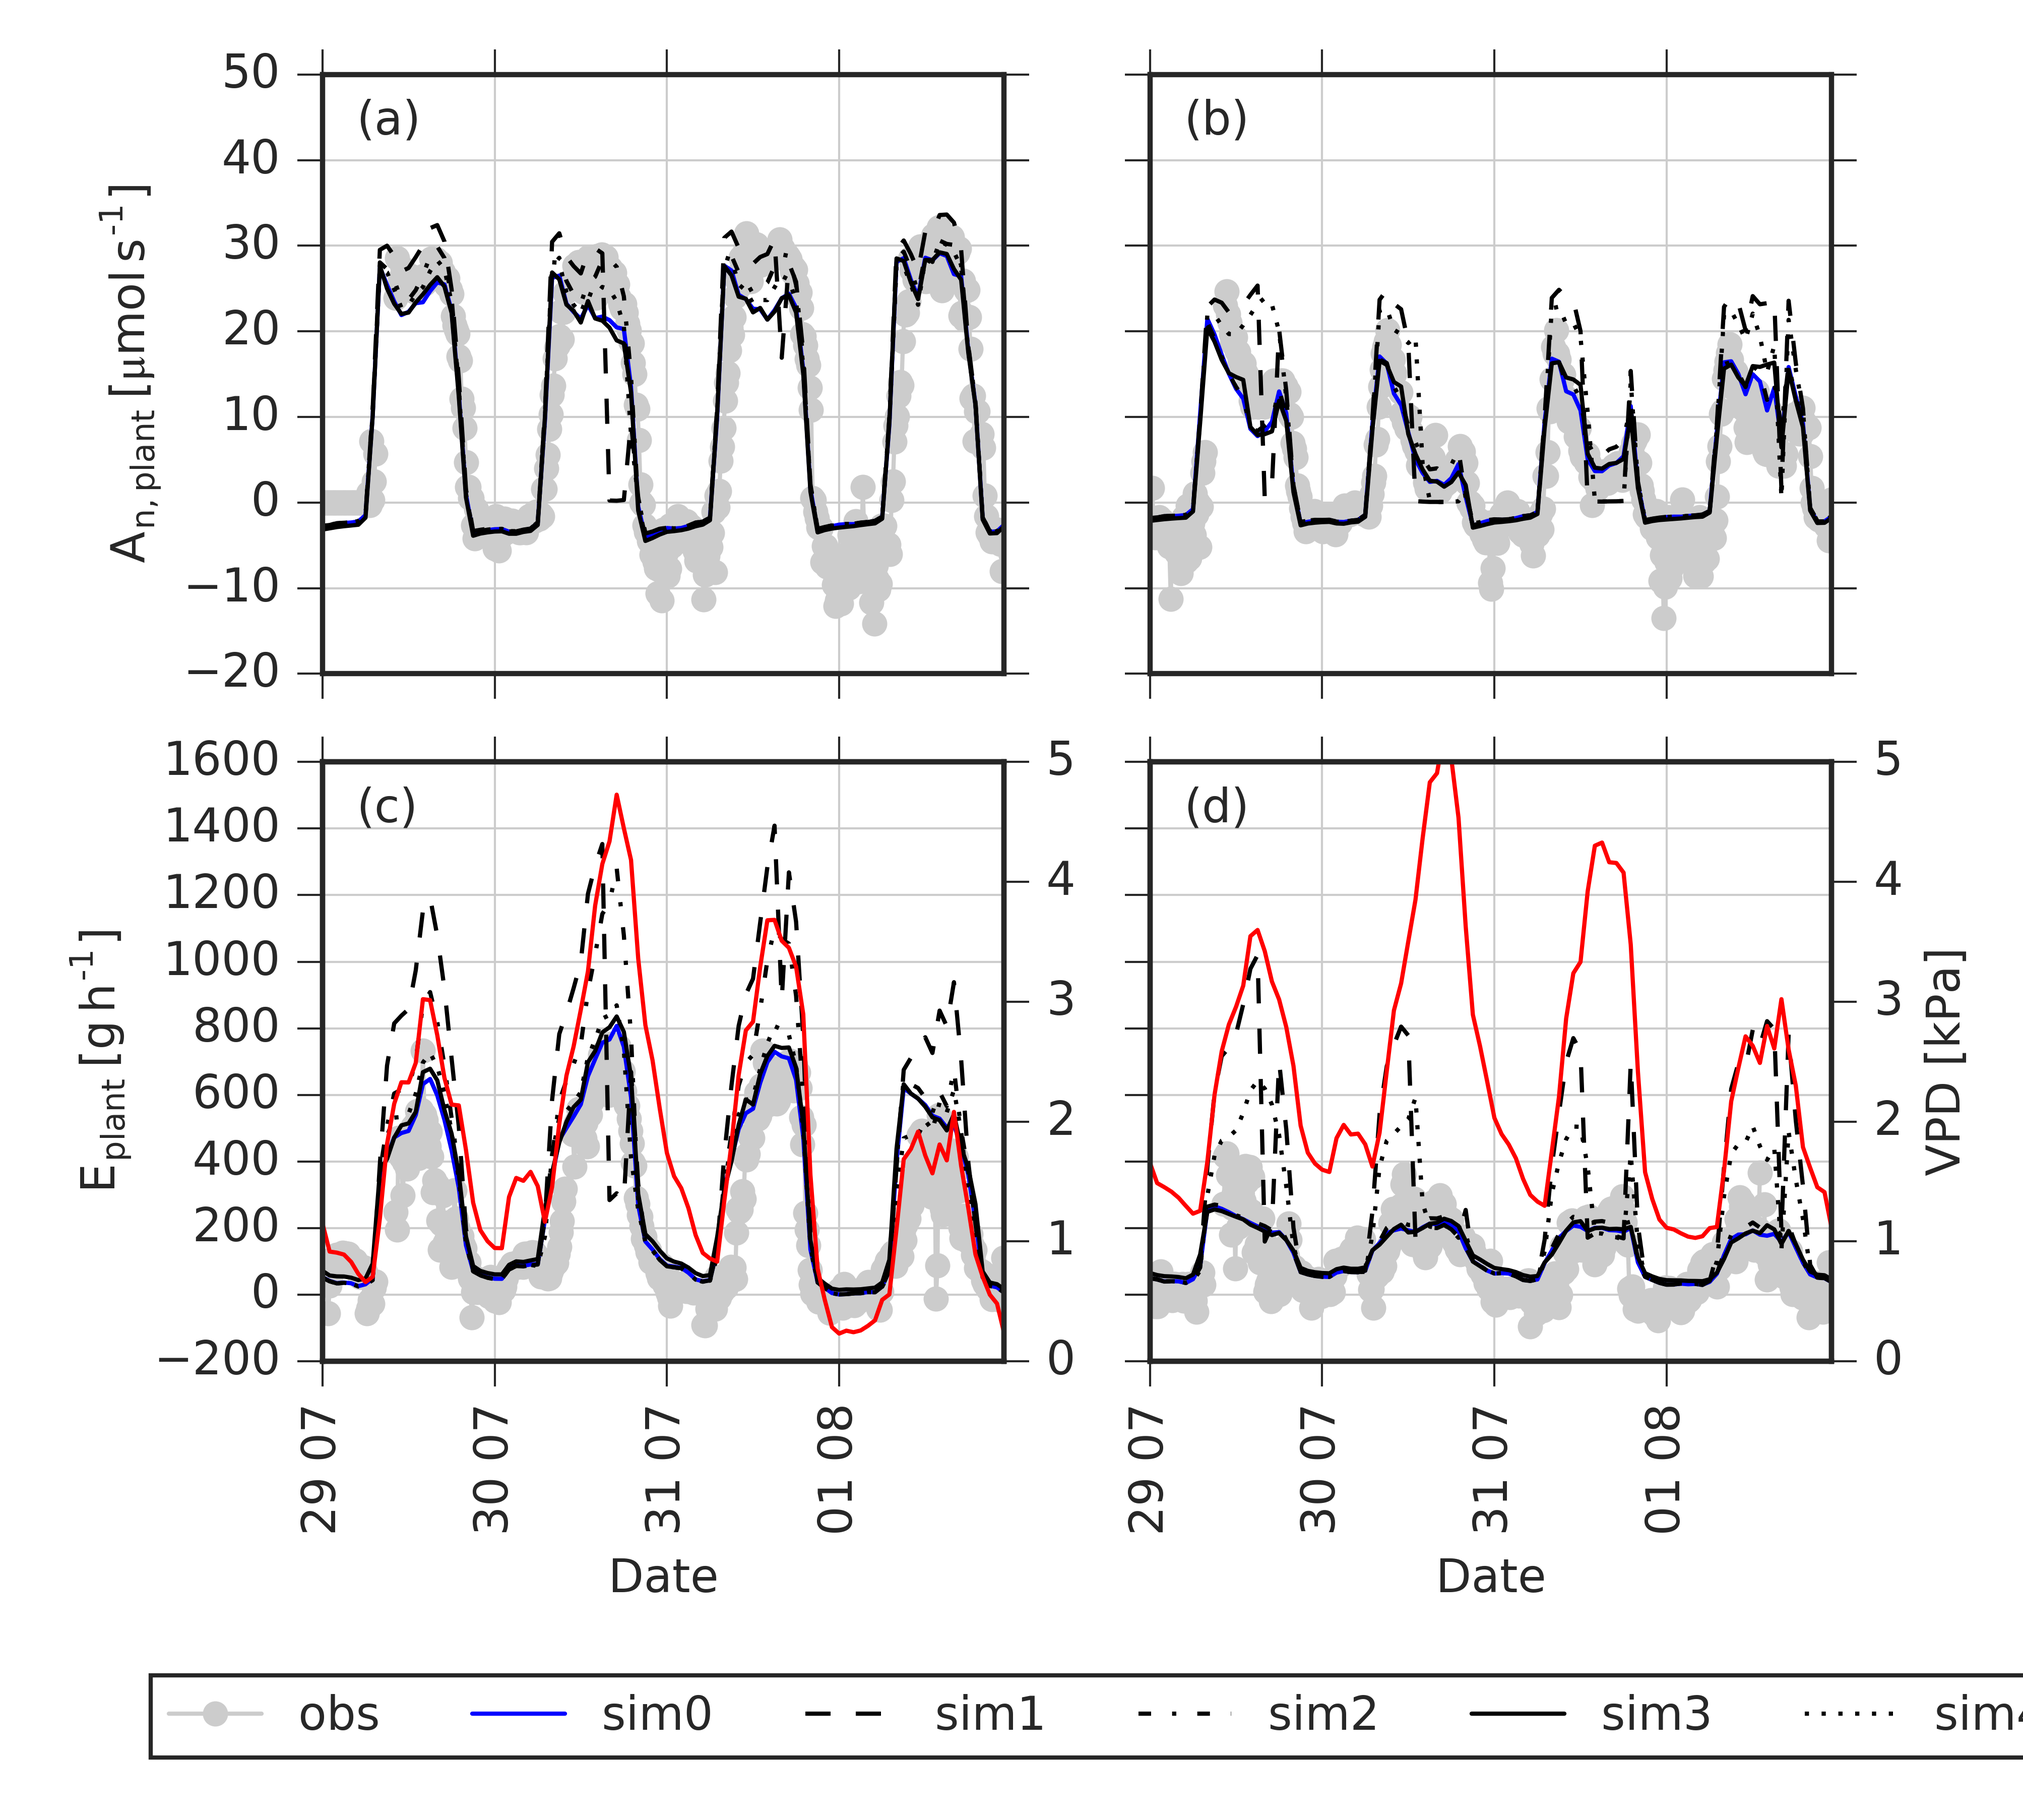
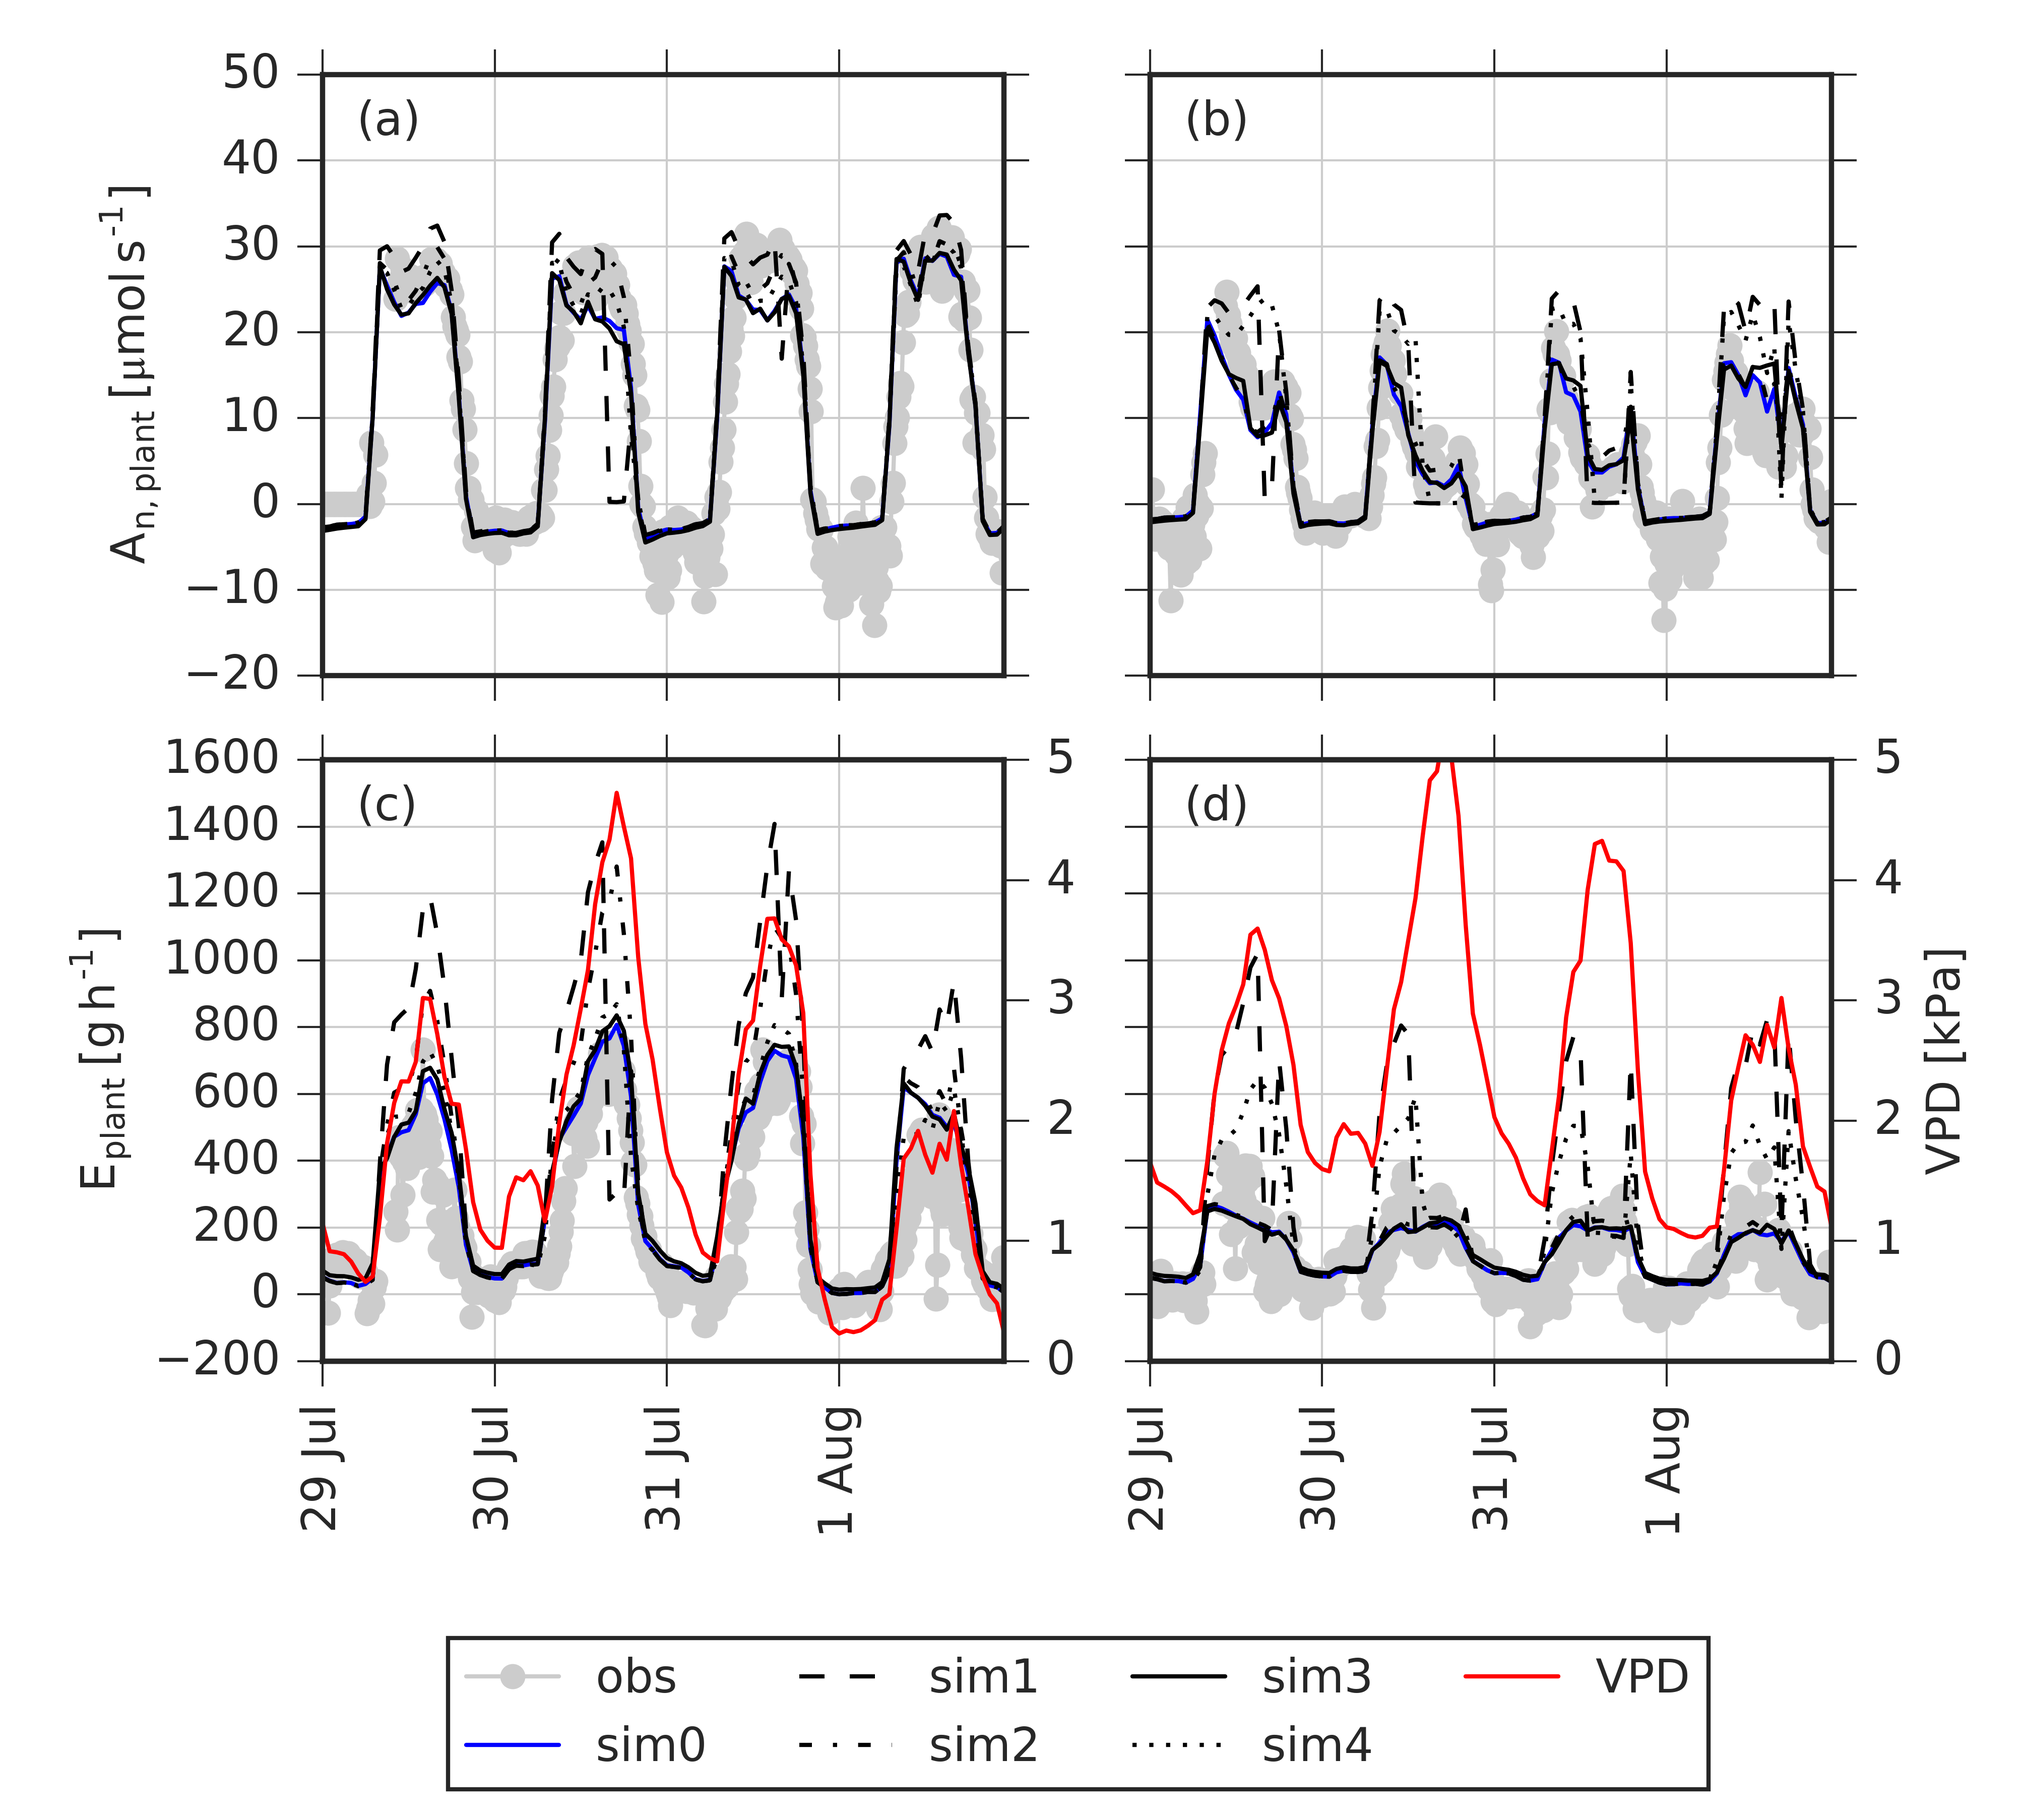
setup plot_figure_15()

diff --git a/example/figs/paper_figs.py b/example/figs/paper_figs.py
@@ -797,24 +797,24 @@ def plot_figure_15():
             axs[1, i_treat].plot(sims['E'], style[case], label='sim0', linewidth=1)
 
     for i, ax in enumerate(axs.flatten()):
-        ax.text(0.05, 0.9, ('(a)', '(b)', '(c)', '(d)')[i], transform=ax.transAxes)
+        ax.text(0.05, 0.9, ('(a)', '(b)', '(c)', '(d)')[i], transform=ax.transAxes,
+                fontdict={'size': 11})
 
     axs[0, 0].set(
         ylabel='$\mathregular{A_{n, plant}\/[\mu mol\/s^{-1}]}$',
         ylim=(-20, 50))
     axs[1, 0].set(
-        xlabel='Date',
         ylabel='$\mathregular{E_{plant}\/[g\/h^{-1}]}$',
         xlim=(beg_date, end_date),
         ylim=(-200, 1600))
-    axs[1, 1].set(xlabel='Date')
+
     [ax.set_ylim(0, 5) for ax in fig.get_axes()[-2:]]
     fig.get_axes()[-1].set(ylabel='VPD [kPa]')
 
     for ax in axs[1, :].flatten():
         ax.set_xticklabels(datet, rotation=90)
         ax.xaxis.set_major_locator(dates.DayLocator())
-        ax.xaxis.set_major_formatter(dates.DateFormatter('%d %m'))
+        ax.xaxis.set_major_formatter(dates.DateFormatter('%-d %b'))
 
     fig.tight_layout()
     fig.subplots_adjust(bottom=0.25)
@@ -822,8 +822,8 @@ def plot_figure_15():
     h1, l1 = axs[1, 1].get_legend_handles_labels()
     h2, l2 = fig.get_axes()[-1].get_legend_handles_labels()
 
-    axs[1, 1].legend(h1 + h2, ['obs'] + ['sim%d' % d for d in range(5)] + ['VPD'], frameon=True,
-                     bbox_to_anchor=(-1.5, -0.7, 2, .102), loc=3, ncol=8,
+    axs[1, 0].legend(h1 + h2, ['obs'] + ['sim%d' % d for d in range(5)] + ['VPD'], frameon=True,
+                     bbox_to_anchor=(0.15, -0.75, 2, .102), loc=3, ncol=4,
                      prop={'size': 11})
 
     fig.savefig('fig_15.png', dpi=600.)
@@ -984,15 +984,15 @@ if __name__ == '__main__':
 
     example_pth = Path(__file__).parents[2] / 'example'
 
-    # plot_figure_6()
-    # plot_figure_7()
-    # plot_figure_8()
-    # plot_figure_9()
-    # plot_figure_10()
-    # plot_figure_11()
-    # plot_figure_12()
-    # plot_figure_13()
+    plot_figure_6()
+    plot_figure_7()
+    plot_figure_8()
+    plot_figure_9()
+    plot_figure_10()
+    plot_figure_11()
+    plot_figure_12()
+    plot_figure_13()
     plot_figure_14()
-    # plot_figure_15()
-    # write_table_1()
-    # estimate_energy_balance_contribution()
+    plot_figure_15()
+    write_table_1()
+    estimate_energy_balance_contribution()
